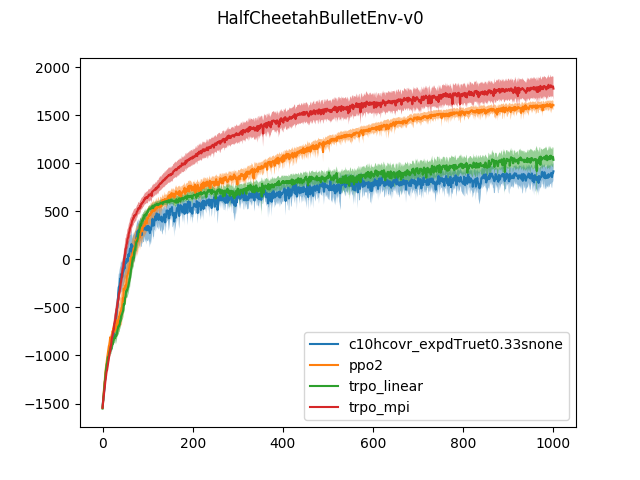
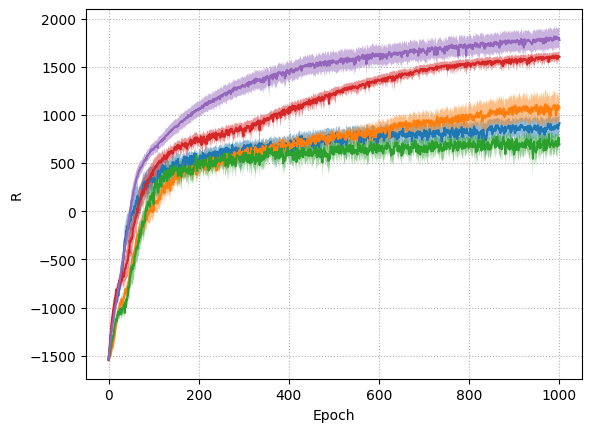
plot r new diff proto algs

diff --git a/plot_r.py b/plot_r.py
@@ -54,7 +54,7 @@ def create_figure(res_folder, subfolder, name, env, all_data, alg_labels, use_me
     plt.clf()
 
 
-def load_data_base(res_folder, env, subfolder, nb_runs, nb_epochs, entropy=True):
+def load_data_base(res_folder, env, subfolder, nb_runs, nb_epochs, entropy=True, add_prop_id=False):
     all_r_a = []
     all_j_a = []
     all_entropy_a = []
@@ -65,9 +65,12 @@ def load_data_base(res_folder, env, subfolder, nb_runs, nb_epochs, entropy=True)
         e_filename = 'E-' + str(run) + '.npy'
 
         print(res_folder, env, subfolder, j_filename)
-        j_name = os.path.join(res_folder, env, subfolder, j_filename)
-        r_name = os.path.join(res_folder, env, subfolder, r_filename)
-        e_name = os.path.join(res_folder, env, subfolder, e_filename)
+        prop_id = ''
+        if add_prop_id:
+            prop_id = 'env_id_'
+        j_name = os.path.join(res_folder, prop_id+env, subfolder, j_filename)
+        r_name = os.path.join(res_folder, prop_id+env, subfolder, r_filename)
+        e_name = os.path.join(res_folder, prop_id+env, subfolder, e_filename)
 
         try:
             J = np.load(j_name)
@@ -92,14 +95,17 @@ def load_data_base(res_folder, env, subfolder, nb_runs, nb_epochs, entropy=True)
         return all_j_a, all_r_a
 
 
-def load_data_baselines(res_folder, env, alg_names, nb_runs, nb_epochs, entropy=False):
+def load_data_baselines(res_folder, env, alg_names, nb_runs, nb_epochs, entropy=False, add_prop_id=False):
     all_j = []
     all_r = []
 
     for alg_name in alg_names:
-        subfolder = alg_name
+        if add_prop_id:
+            subfolder = 'alg_name_'+alg_name
+        else:
+            subfolder = alg_name
 
-        all_j_a, all_r_a = load_data_base(res_folder, env, subfolder, nb_runs, nb_epochs, entropy=entropy)
+        all_j_a, all_r_a = load_data_base(res_folder, env, subfolder, nb_runs, nb_epochs, entropy=entropy, add_prop_id=add_prop_id)
 
         all_j.append(all_j_a)
         all_r.append(all_r_a)
@@ -107,7 +113,7 @@ def load_data_baselines(res_folder, env, alg_names, nb_runs, nb_epochs, entropy=
     return all_j, all_r
 
 
-def load_data_fixedtemp(res_folder, env, alg_name, n_clusterss, nb_runs, nb_epochs, clus_sels, clus_dels, temps):
+def load_data_fixedtemp(res_folder, env, alg_name, n_clusterss, nb_runs, nb_epochs, clus_sels, clus_dels, temps, add_prop_id=False):
     all_j = []
     all_r = []
     all_entropy = []
@@ -120,7 +126,7 @@ def load_data_fixedtemp(res_folder, env, alg_name, n_clusterss, nb_runs, nb_epoc
                     alg_label = 'c' + str(n_clusters) + 'h' + clus_sel + 'd' + str(clus_del) + 't' + str(temp) + 'snone'
                     subfolder = alg_name + '_' + alg_label
                     print(subfolder)
-                    all_j_a, all_r_a, all_entropy_a = load_data_base(res_folder, env, subfolder, nb_runs, nb_epochs)
+                    all_j_a, all_r_a, all_entropy_a = load_data_base(res_folder, env, subfolder, nb_runs, nb_epochs, add_prop_id=add_prop_id)
 
                     all_j.append(all_j_a)
                     all_r.append(all_r_a)
@@ -133,41 +139,55 @@ def load_data_fixedtemp(res_folder, env, alg_name, n_clusterss, nb_runs, nb_epoc
 if __name__ == '__main__':
 
     plot_baselines = True
+    plot_diffproto = True
 
-    xp_name = 'final_small2'
-    envs = ['BipedalWalker-v2', 'Pendulum-v0', 'InvertedPendulumSwingupBulletEnv-v0', 'InvertedPendulumBulletEnv-v0']
-    temps = [1., 1., 1., 1.]
-    n_clusterss = [5, 10, 20]
-    nb_epochs = 500
-    alg_labels = ['Metric-5', 'Metric-10', 'Metric-20', 'PPO', 'TRPO (MLP)', 'TRPO (Linear)']
+    # xp_name = 'final_small2'
+    # envs = ['BipedalWalker-v2', 'Pendulum-v0', 'InvertedPendulumSwingupBulletEnv-v0', 'InvertedPendulumBulletEnv-v0']
+    # temps = [1., 1., 1., 1.]
+    # n_clusterss = [5, 10, 20]
+    # nb_epochs = 500
+    # alg_labels = ['Metric-5', 'Metric-10', 'Metric-20', 'PPO', 'TRPO (MLP)', 'TRPO (Linear)']
 
-    # xp_name = 'final_medium'
-    # envs = ['HopperBulletEnv-v0', 'Walker2DBulletEnv-v0', 'HalfCheetahBulletEnv-v0', 'AntBulletEnv-v0']
-    # temps = [1., 1., .33, .33]
+    xp_name = 'final_medium'
+    # xp_name = 'med_diff'
+    envs = ['HopperBulletEnv-v0', 'Walker2DBulletEnv-v0', 'HalfCheetahBulletEnv-v0', 'AntBulletEnv-v0']
+    temps = [1., 1., .33, .33]
     # n_clusterss = [10, 20, 40]
-    # nb_epochs = 1000
+    n_clusterss = [10]
+    nb_epochs = 1000
     # alg_labels = ['Metric-10', 'Metric-20', 'Metric-40', 'PPO', 'TRPO (MLP)', 'TRPO (Linear)']
+    alg_labels = ['Metric-10', 'PPO-DiffMetric10', 'TRPO-DiffMetric10', 'PPO', 'TRPO (MLP)']
 
     res_folder = './Results/'
     exp_folder = os.path.join(res_folder, xp_name)
     baseline_folder = os.path.join(res_folder, 'baselines')
+    diffproto_folder = os.path.join(res_folder, 'diffproto')
 
     nb_runs = 25
     clus_sels = ['covr_exp']
     clus_dels = [True]
     alg_name = 'metricrl'
-    baselines_algs = ['ppo2', 'trpo_mpi', 'trpo_linear']
+    # baselines_algs = ['ppo2', 'trpo_mpi', 'trpo_linear']
+    baselines_algs = ['ppo2', 'trpo_mpi']
     baselines_mushroom_algs = ['PPO', 'TRPO']
+    diffproto_algs = ['PPO', 'TRPO']
+    diffproto_algs = [dpalg + '/nb_centers_' + str(n_clusterss[0]) for dpalg in diffproto_algs]
 
     count = 0
     for temp, env in zip(temps, envs):
-        all_j, all_r, all_e, _ = load_data_fixedtemp(exp_folder, env, alg_name, n_clusterss, nb_runs, nb_epochs, clus_sels, clus_dels, [temp])
+        all_j, all_r, all_e, _ = load_data_fixedtemp(exp_folder, env, alg_name, n_clusterss, nb_runs, nb_epochs, clus_sels, clus_dels, [temp], add_prop_id=False)
 
-        if plot_baselines:
-            b_j, b_r = load_data_baselines(baseline_folder, env, baselines_algs, nb_runs, nb_epochs)
+        if plot_diffproto:
+            b_j, b_r = load_data_baselines(diffproto_folder, env, diffproto_algs, nb_runs, nb_epochs, add_prop_id=True)
             all_j += b_j
             all_r += b_r
 
+        if plot_baselines:
+            b_j, b_r = load_data_baselines(baseline_folder, env, baselines_algs, nb_runs, nb_epochs, add_prop_id=False)
+            all_j += b_j
+            all_r += b_r
+
+        print('creating figure in folder {}, subfolder plots/{}, for env {}'.format(res_folder, xp_name, env))
         create_figure(res_folder, xp_name, 'R', env, all_r, alg_labels,
                       legend=(count + 1 == len(envs)))
         count += 1
